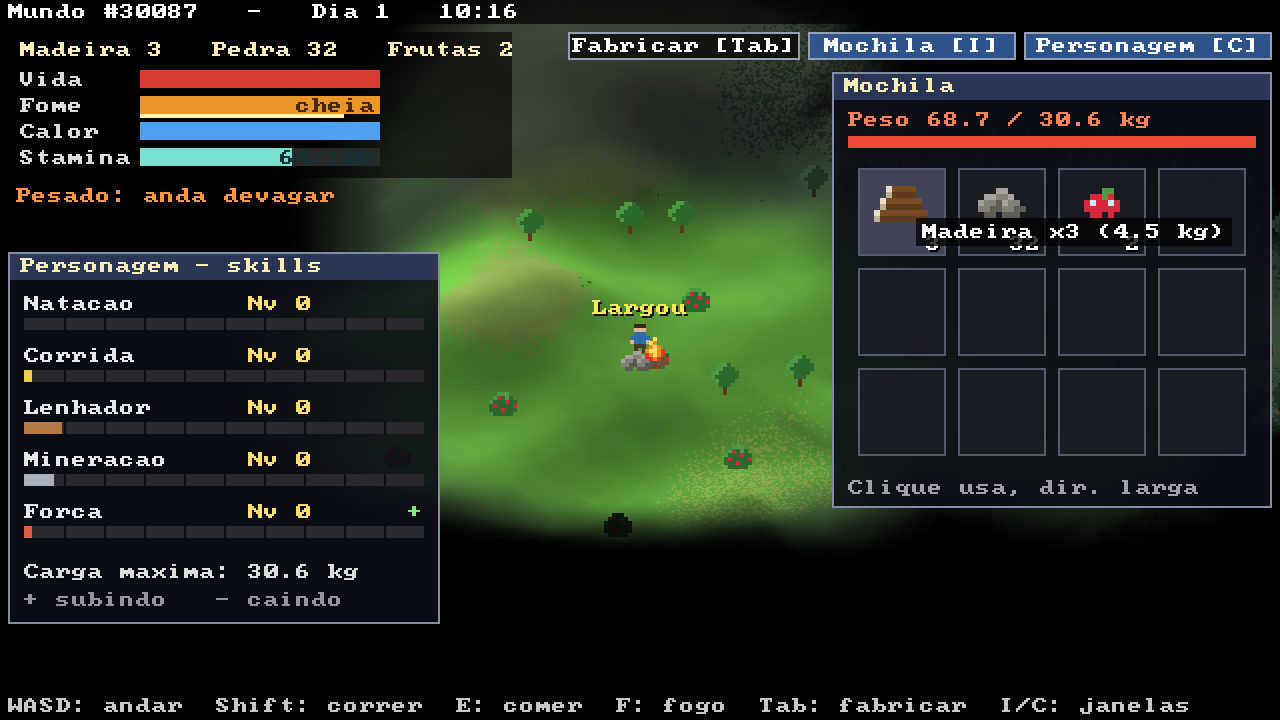
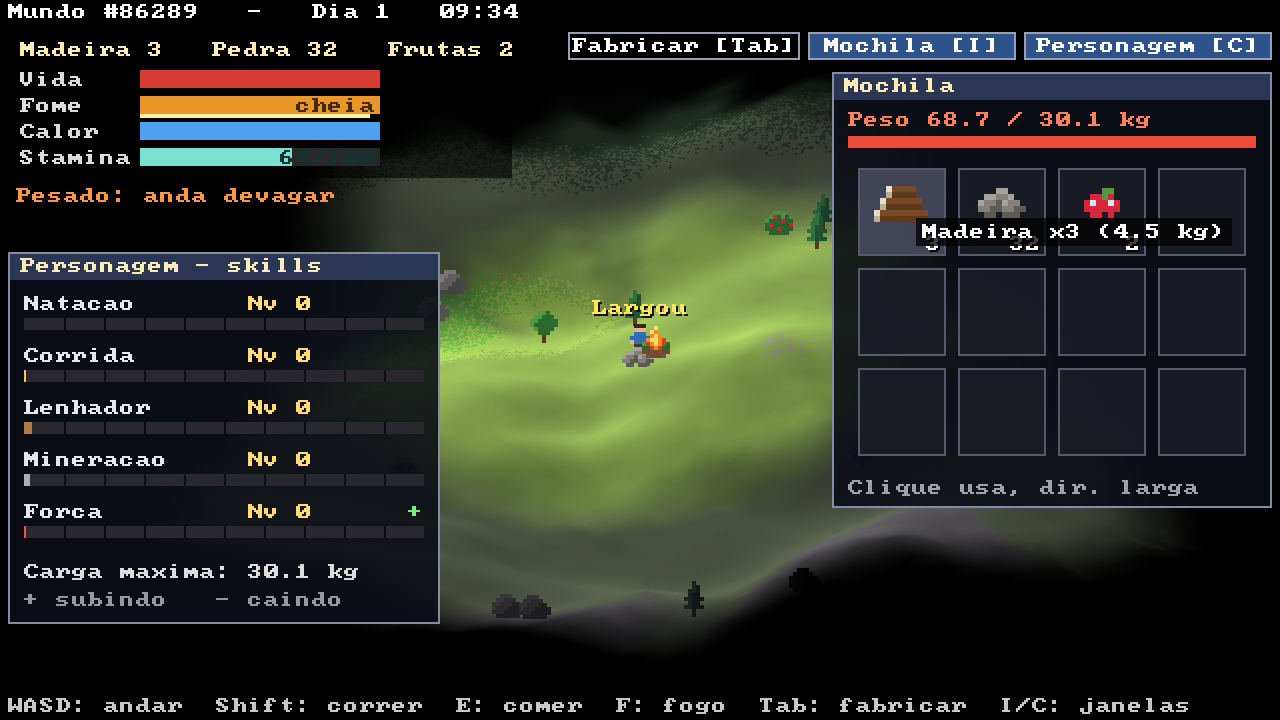
Tempo do jogo 4x mais lento: dia de 12 min, fome, fogo, tocha e skills

diff --git a/comum.h b/comum.h
@@ -73,12 +73,12 @@
 .equ SPR_FIN,   11           // barbatana do tubarao
 .equ SPR_TORCH, 17           // tocha (icone e na mao)
 
-// ---- sobrevivencia ---------------------------------------------------------
+// ---- sobrevivencia (60 quadros = 1 s; tempos 4x mais longos) ---------------
 .equ MAXFIRE,   32           // fogueira: 16 bytes (u, v, e, lenha)
-.equ DAYLEN,    10800        // quadros por dia (3 minutos)
-.equ T_DUSK,    5400         // 18:00
-.equ T_NIGHT,   6480         // 20:24
-.equ T_DAWN,    9720         // 05:36
+.equ DAYLEN,    43200        // quadros por dia (12 minutos)
+.equ T_DUSK,    21600        // 18:00
+.equ T_NIGHT,   25920        // 20:24
+.equ T_DAWN,    38880        // 05:36
 
 // ---- estado global: x28 aponta sempre para G ----------------------------
 .equ G_REN,      0
@@ -176,8 +176,8 @@
 .equ SK_MINE,    3           // mineracao
 .equ SK_STR,     4           // forca
 .equ NSKILL,     5
-.equ SATTIME,    3600        // fome cheia segura 60 s antes de cair
-.equ SKREST,     1800        // 30 s sem treinar: a skill comeca a cair
+.equ SATTIME,    14400       // fome cheia segura 4 min antes de cair
+.equ SKREST,     7200        // 2 min sem treinar: a skill comeca a cair
 .equ G_SKSWIM,   (G_SKILL + 4 * SK_SWIM)
 .equ G_SKRUN,    (G_SKILL + 4 * SK_RUN)
 .equ G_SKCHOP,   (G_SKILL + 4 * SK_CHOP)
@@ -209,7 +209,10 @@
 .equ O_LAST,     21          // ultimo tipo de objeto desenhavel
 
 .equ TOOLDUR,    40          // usos de um machado ou picareta
-.equ TORCHTIME,  3600        // uma tocha queima 60 s
+.equ TORCHTIME,  14400       // uma tocha queima 4 min
+.equ FIRETIME,   14400       // fogueira nova: 4 min de fogo
+.equ FIREWOOD,   7200        // cada lenha: +2 min
+.equ FIREMAX,    43200       // no maximo 12 min
 .equ MAXCHEST,   64
 .equ MAXSHELTER, 32
 .equ NRECIPES,   8

diff --git a/README.md b/README.md
@@ -20,7 +20,7 @@ Você aparece sozinho num mundo gerado aleatoriamente: terreno contínuo, mar, p
 | Tab ou botão **Fabricar** | abre a janela de fabricar |
 | clique no mapa (com uma construção na mão) | coloca a construção; botão direito ou ESC cancela |
 | botão direito num baú | abre o baú (clique num item passa de um lado para o outro) |
-| botão direito numa fogueira | pôr lenha (+30 s de fogo) |
+| botão direito numa fogueira | pôr lenha (+2 min de fogo; no máximo 12 min) |
 | I ou botão **Mochila** | abre a mochila (clique num item: come, coloca ou guarda no baú aberto) |
 | C ou botão **Personagem** | abre as skills |
 | botão direito num item da mochila | larga 1 no chão (com Shift: a pilha toda) |
@@ -48,8 +48,8 @@ Como no Minecraft e no Factorio, uma janela mostra tudo o que dá para fazer.
 |---|---|---|
 | Machado | 3 madeira, 2 pedra | corta árvores 2x mais rápido; dura 40 madeiras |
 | Picareta | 3 madeira, 3 pedra | quebra pedras 2x mais rápido; dura 40 pedras |
-| Tocha | 2 madeira | acende sozinha quando escurece: luz forte e visão de 10 células por 60 s |
-| Fogueira | 5 madeira, 3 pedra | luz e calor (construção) |
+| Tocha | 2 madeira | acende sozinha quando escurece: luz forte e visão de 10 células por 4 minutos |
+| Fogueira | 5 madeira, 3 pedra | luz e calor por 4 minutos (construção) |
 | Baú | 8 madeira | guarda itens sem pesar na mochila (construção) |
 | Abrigo | 12 madeira, 4 pedra | dentro dele não passa frio à noite (construção) |
 | Frutas assadas | 3 frutas, perto de uma fogueira | enchem 50 de fome |
@@ -63,10 +63,10 @@ Como no Minecraft e no Factorio, uma janela mostra tudo o que dá para fazer.
 
 **Sobrevivência**
 
-- **Fome:** quando enche (comendo), fica **cheia por 60 segundos** antes de começar a cair. Comer de novo com ela cheia renova esse tempo. Depois cai de cheia a vazia em uns 6 minutos. Sem comida, a vida cai.
+- **Fome:** quando enche (comendo), fica **cheia por 4 minutos** antes de começar a cair. Comer de novo com ela cheia renova esse tempo. Depois cai de cheia a vazia em uns 24 minutos. Sem comida, a vida cai.
 - **Calor:** de dia fica tudo bem. À noite esfria; perto de uma fogueira acesa (5 células), esquenta. Sem calor, a vida cai.
 - **Vida:** só volta com a **fome cheia** (e sem passar frio). O HUD mostra "cheia" e um filete amarelo com o tempo que ainda falta.
-- **Dia e noite:** um dia dura 3 minutos. A noite escurece a tela de verdade; só a fogueira e uma luz fraca em volta do personagem iluminam.
+- **Dia e noite:** um dia dura **12 minutos** (a noite, uns 3). A noite escurece a tela de verdade; só a fogueira e uma luz fraca em volta do personagem iluminam.
 
 **Stamina e corrida**
 
@@ -93,8 +93,8 @@ Como no Minecraft e no Factorio, uma janela mostra tudo o que dá para fazer.
 
 Cada skill vai de nível 0 a 10.
 
-- Sobe treinando, mais devagar quanto mais alta.
-- Depois de **30 s sem treinar**, começa a cair devagarzinho (~1 nível a cada 10 minutos).
+- Sobe treinando, mais devagar quanto mais alta. Para chegar perto do máximo são uns 20 minutos só nadando (ou correndo), ou umas 650 madeiras cortadas.
+- Depois de **2 minutos sem treinar**, começa a cair devagarzinho (~1 nível a cada 40 minutos).
 - Na janela do personagem, `+` verde = treinando agora e `-` laranja = caindo.
 
 | Skill | Treina | Efeito no máximo |
